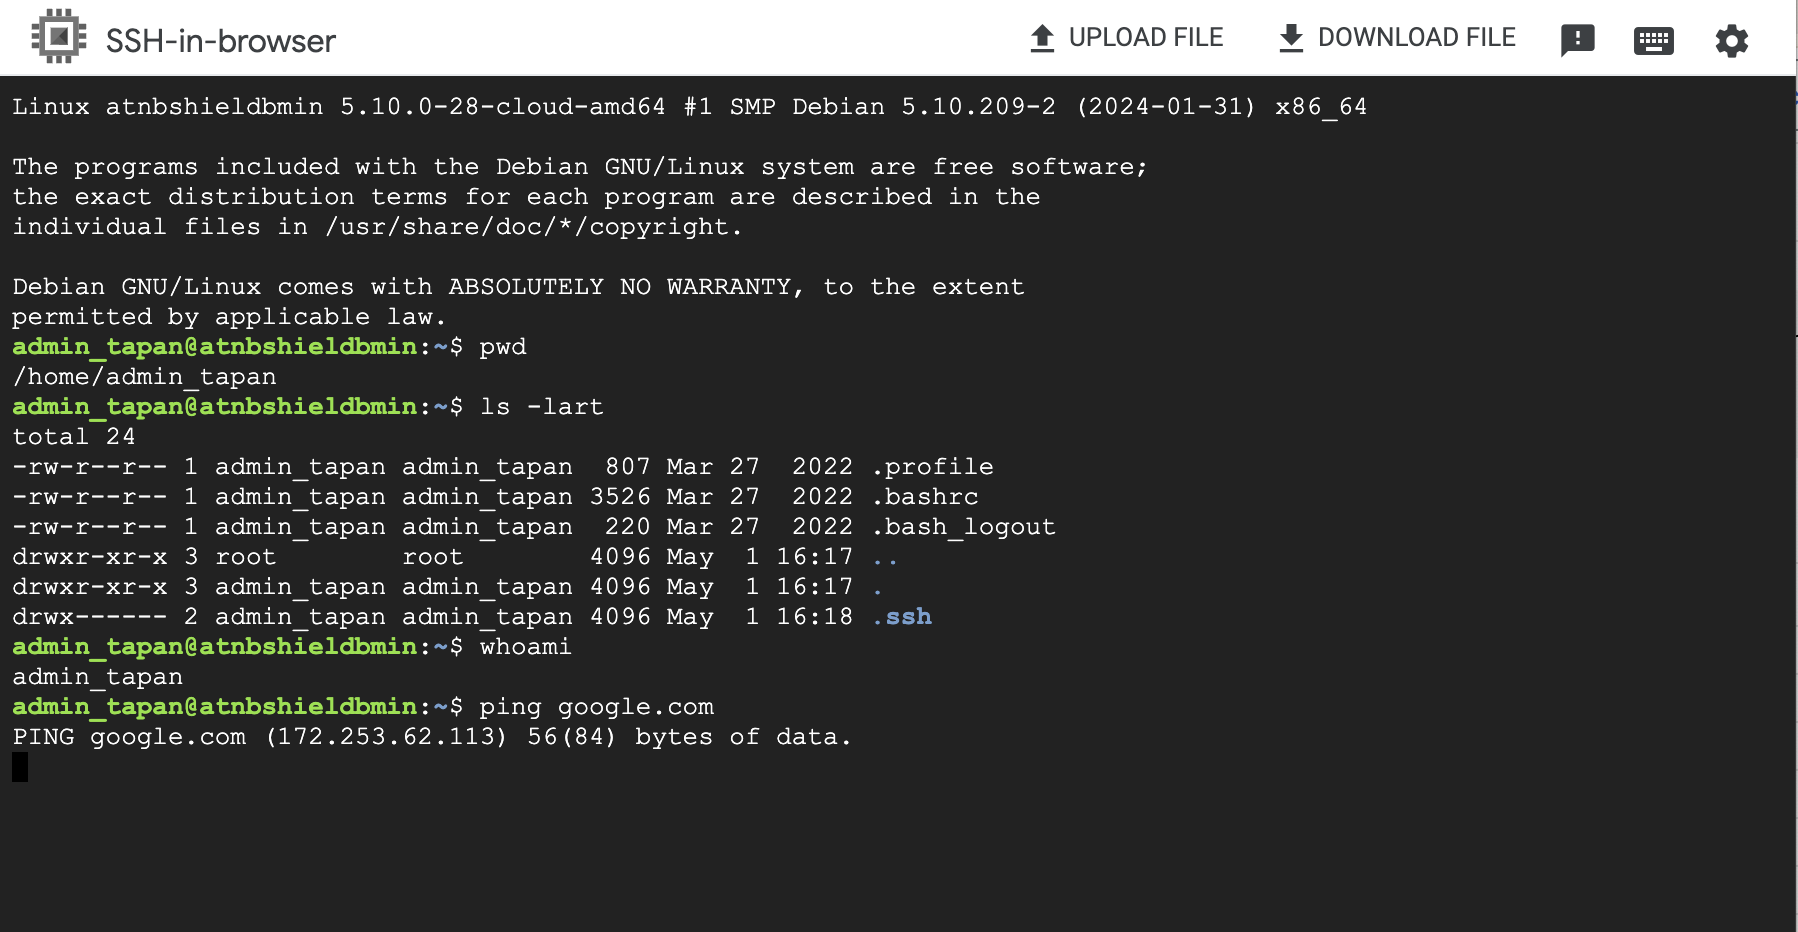
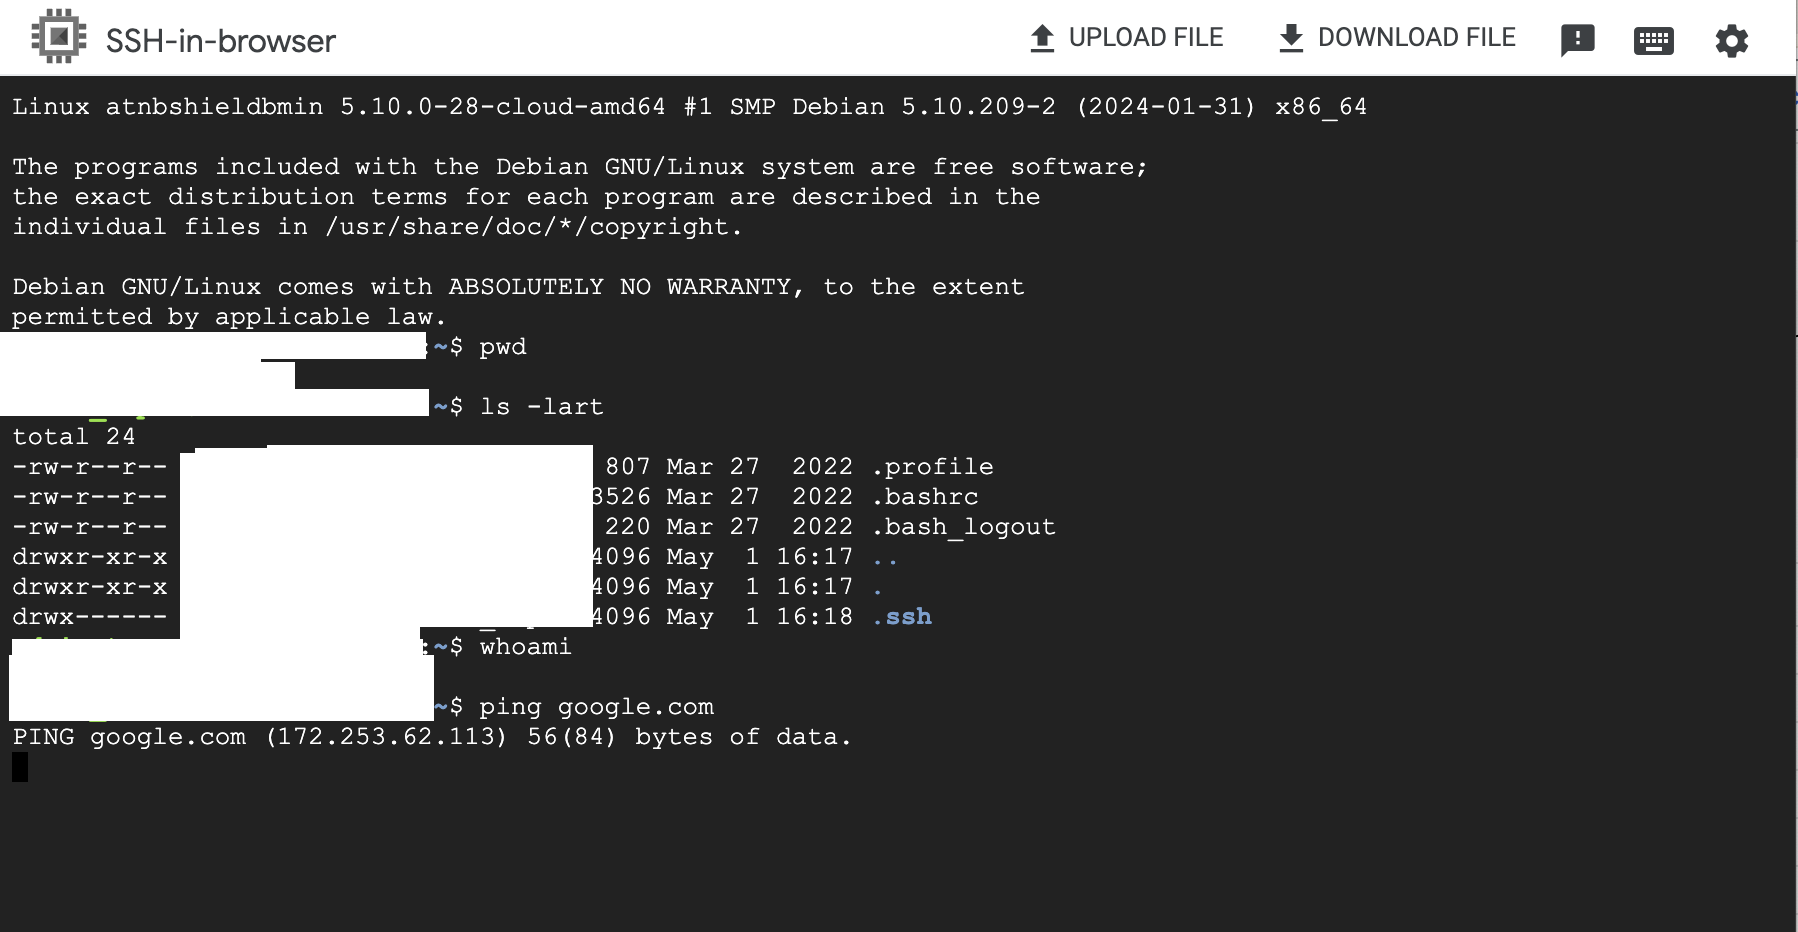
Edits in variables, Sample, Screenshot

Changed region(s): [[0.0, 0.3423, 0.3426, 0.7779]]

diff --git a/blueprints/il5/shielded-vm-project/README.md b/blueprints/il5/shielded-vm-project/README.md
@@ -24,7 +24,7 @@ Shielded VMs are virtual machines (VMs) on Google Cloud hardened by a set of sec
 
 ## How to deploy the Terraform Code. The Deployment Steps
 You should see this README and some terraform files.
-1. Update the Variables in the variables.tf , that are marked as "# TODO: Update"
+1. Update the Variables in the variables.tf 
 2. There is a sample ```terraform.tfvars.sample``` available as wellthat 
 3. Although each use case is somehow built around the previous one they are self-contained so you can deploy any of them at your will. The usual terraform commands will do the work:
 